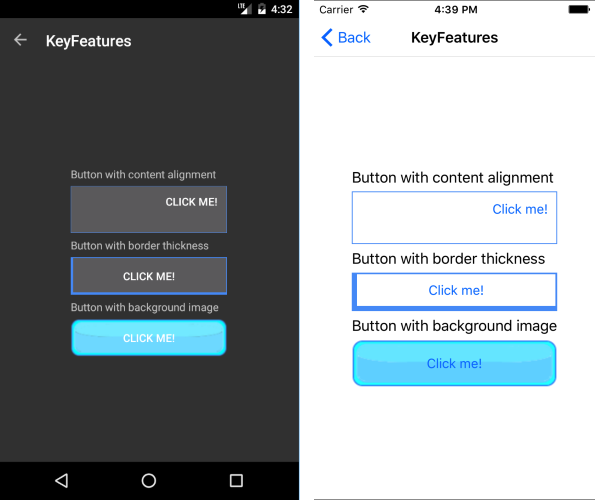
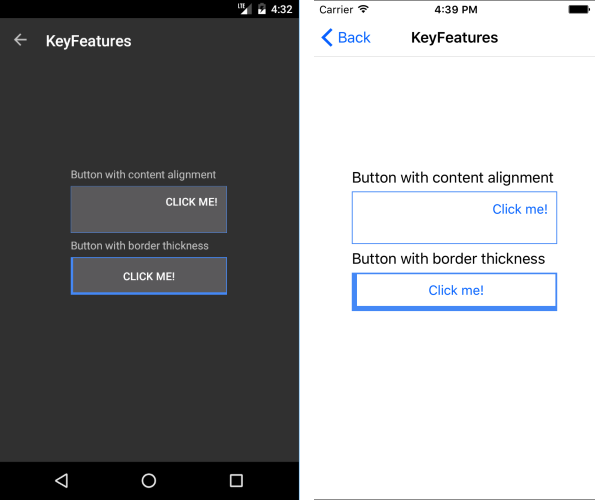
remove button image

Changed region(s): [[0.5691, 0.63, 0.9285, 0.78], [0.1198, 0.6, 0.3894, 0.72]]

diff --git a/controls/button/button-overview.md b/controls/button/button-overview.md
@@ -20,9 +20,7 @@ slug: button-overview
 * **Content alignment options**: With RadButton, you can easily control the horizontal and vertical positioning of its content. For more details, see the [Key Features: Content Alignment]({% slug button-key-features %}#content-alignment) section in RadButton's documentation.
  
 * **Setting border thickness**: RadButton provides a **BorderThickness** property, which you can use together with **BorderColor**. This combination allows you to apply various types of borders around your buttons. See [Key Features: Border Thickness]({% slug button-key-features %}#border-thickness) for more information.
- 
-* **Setting background image**: You can customize RadButton's appearance by applying an image as a background. See [Key Features: Background Image]({% slug button-key-features %}#background-image) for details.
- 
+
 * **Creating circle button**: You can create a circular button by adjusting the Width, Height and BorderRadius of RadButton. See the [How To: Create Circle Button] ({%slug button-howto-create-circle-button%}) topic for more details.
  
 ## See Also

diff --git a/controls/button/button-key-features.md b/controls/button/button-key-features.md
@@ -61,19 +61,6 @@ The snippet below demonstrates how BorderThickness could be defined.
                         BorderColor="#4488F6" />
 ```
 
-## Background Image
-
-The **BackgroundImage** property is of type Microsoft.Maui.Controls.ImageSource and is used to set a graphic as a background of the RadButton control.   
-
-The next snippet shows how you can apply the background image.
-
-```XAML
-<telerikInput:RadButton Text="Click me!"  
-                        BackgroundImage="button_backgroundImage.png"/>
-```
-
->important .NET MAUI has a built-in cross-platform resources which you can use to add any images, fonts, translation files. These resources have to be added in the Resources folder of the cross-platform project.
-
 #### Telerik Button for .NET MAUI
 
 ![Button Key Features Example](images/button-key-features.png)
